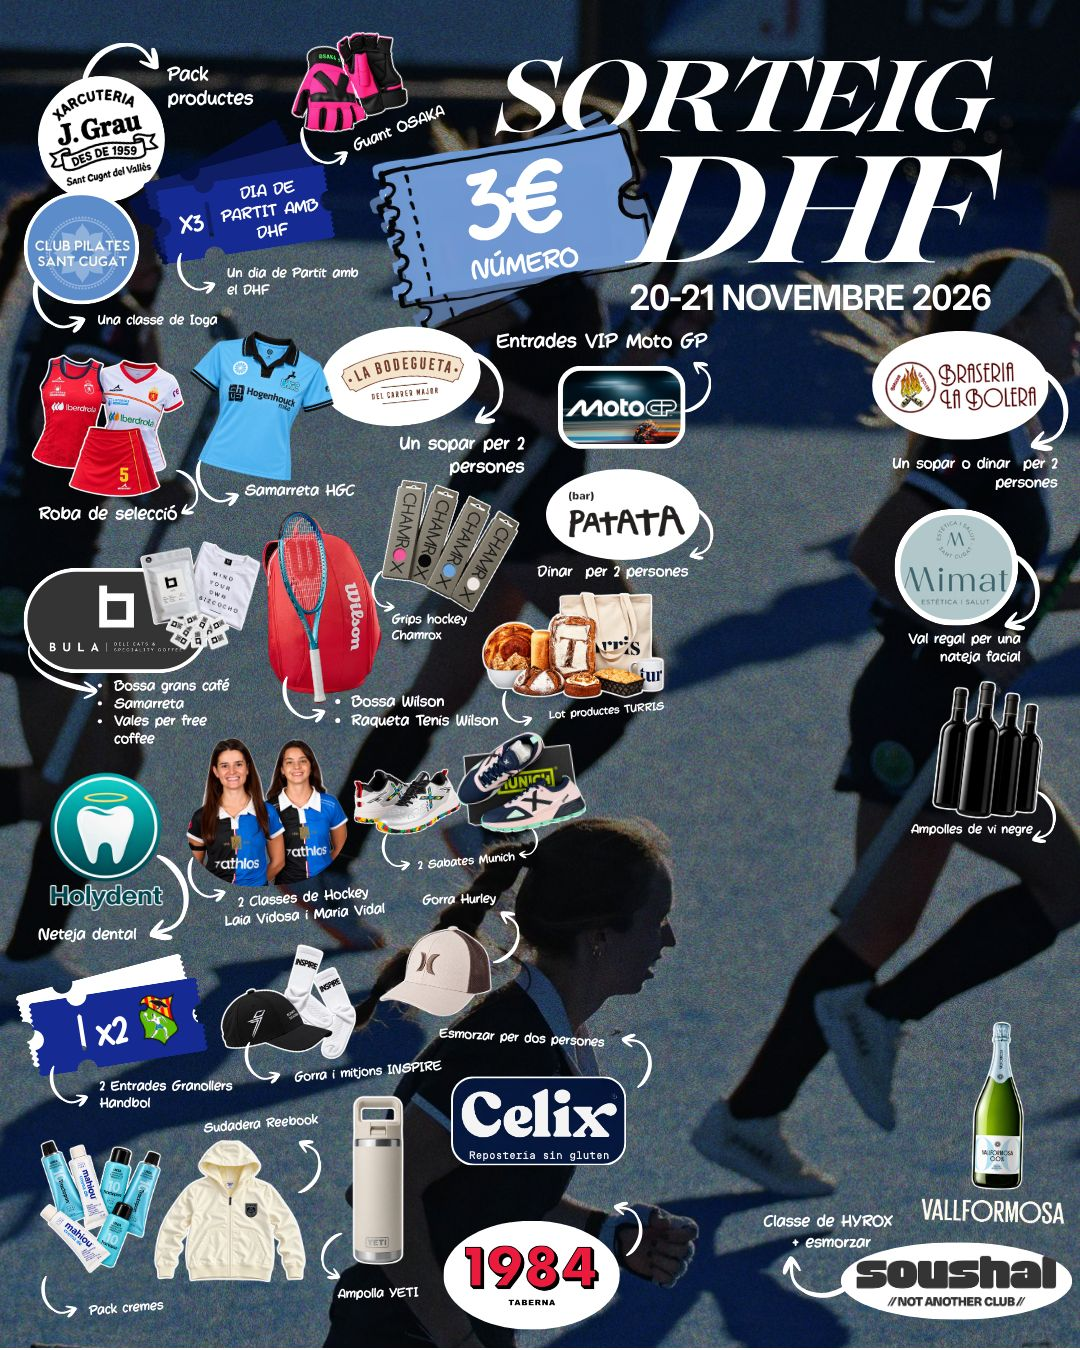
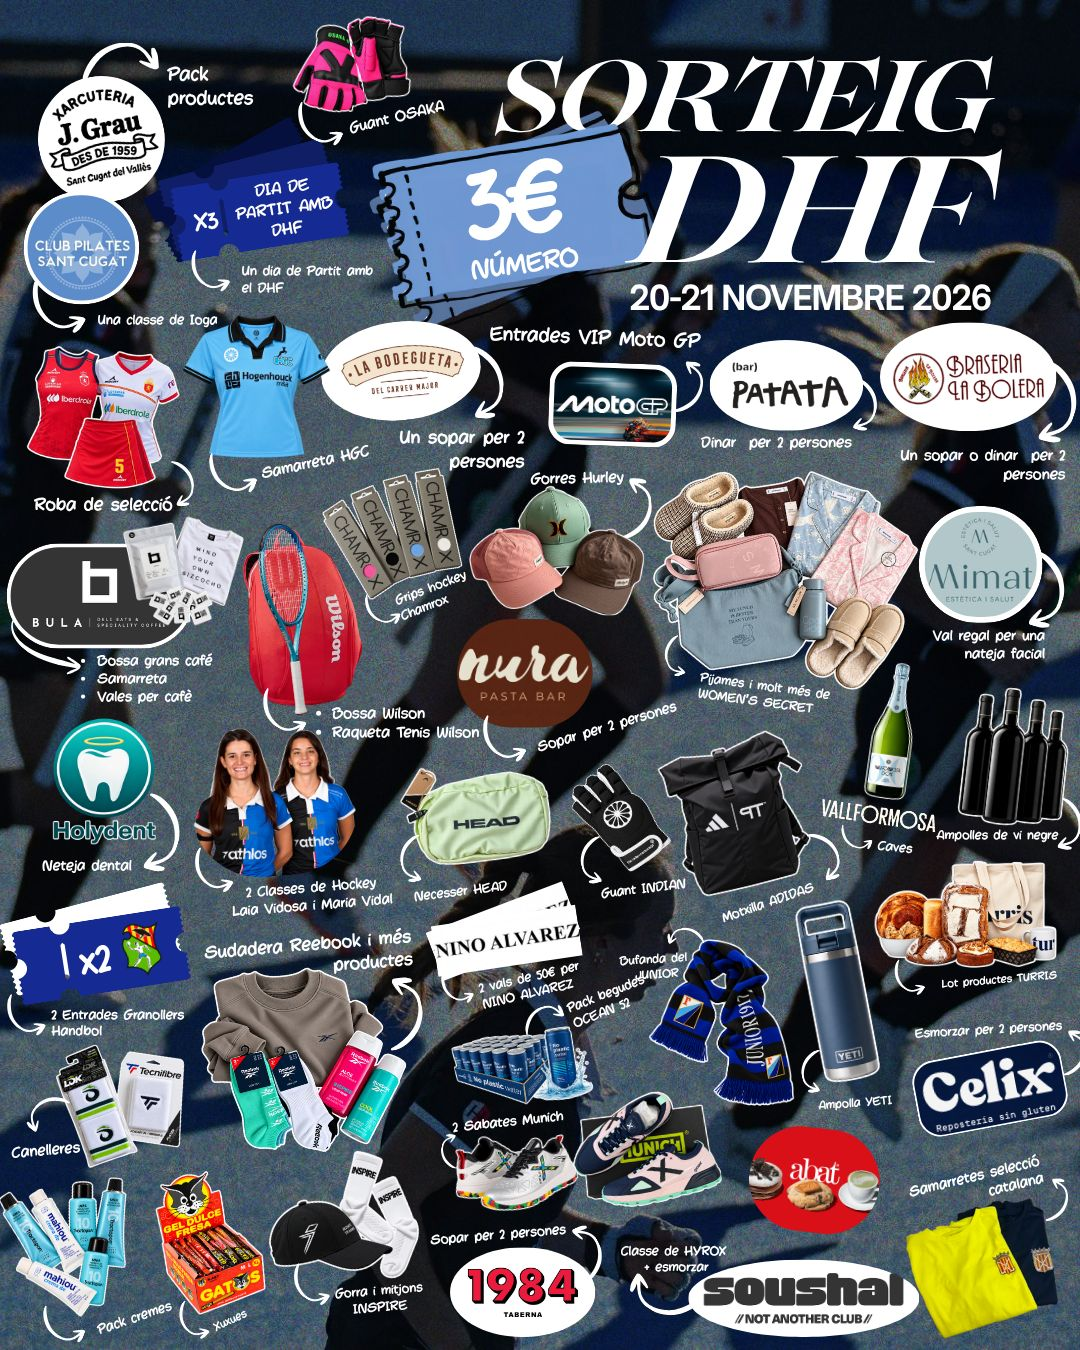
400 números per internet i 400 per a la venda en mà
Els trams passen a ser 1–400 per internet i 401–800 per a la venda en mà,
en comptes d'1–700 i 701–1500.

Al panell, les etiquetes dels dos comptadors i les opcions de l'alta
manual ja no porten els números escrits a mà: els treuen dels trams que
dona el servidor, així no tornen a quedar velles quan es canviïn. També
s'hi posa al dia el preu de partida (3 €), que només es veu l'instant
abans que arribin les dades.

I el cartell dels premis queda substituït per la versió nova.

Claude-Session: https://claude.ai/code/session_01CY6vg8VrV87SFLFj5XhE5e

diff --git a/admin.html b/admin.html
@@ -352,12 +352,12 @@
 
     <div class="marcadors">
       <div class="marcador">
-        <span class="marcador-clau">Internet · 1–700</span>
+        <span class="marcador-clau" id="clauOnline">Internet</span>
         <span class="marcador-valor" id="mOnline">—</span>
         <div class="medidor"><i id="barraOnline" style="width:0%"></i></div>
       </div>
       <div class="marcador">
-        <span class="marcador-clau">En mà · 701–1500</span>
+        <span class="marcador-clau" id="clauMano">En mà</span>
         <span class="marcador-valor" id="mMano">—</span>
         <div class="medidor"><i id="barraMano" style="width:0%"></i></div>
       </div>
@@ -414,8 +414,8 @@
         <div class="camp">
           <label for="aCanal">Venda</label>
           <select id="aCanal">
-            <option value="presencial">En mà (701–1500)</option>
-            <option value="online">Internet (1–700)</option>
+            <option value="presencial">En mà</option>
+            <option value="online">Internet</option>
           </select>
         </div>
         <div class="camp">
@@ -467,7 +467,7 @@
   var eur = function (n) { return eurFmt.format(n); };
   var RE_EMAIL = /^[^\s@]+@[^\s@]+\.[a-zA-Z]{2,}$/;
 
-  var dades = { comandes: [], preu: 5, rangs: { online: [1, 700], presencial: [701, 1500] }, numerosAssignats: {} };
+  var dades = { comandes: [], preu: 3, rangs: { online: [1, 400], presencial: [401, 800] }, numerosAssignats: {} };
   var clau = "";
 
   /* ---------- servidor ---------- */
@@ -594,6 +594,11 @@
     var topeMa = dades.rangs.presencial[1] - dades.rangs.presencial[0] + 1;
     var on = dades.numerosAssignats.online || 0;
     var ma = dades.numerosAssignats.presencial || 0;
+    var tram = function (r) { return numFmt.format(r[0]) + "–" + numFmt.format(r[1]); };
+    $("clauOnline").textContent = "Internet · " + tram(dades.rangs.online);
+    $("clauMano").textContent = "En mà · " + tram(dades.rangs.presencial);
+    $("aCanal").options[0].textContent = "En mà (" + tram(dades.rangs.presencial) + ")";
+    $("aCanal").options[1].textContent = "Internet (" + tram(dades.rangs.online) + ")";
     $("mOnline").textContent = numFmt.format(on) + " / " + numFmt.format(topeOn);
     $("mMano").textContent = numFmt.format(ma) + " / " + numFmt.format(topeMa);
     $("barraOnline").style.width = (on / topeOn * 100) + "%";

diff --git a/lib/db.js b/lib/db.js
@@ -13,8 +13,8 @@ export const sql = neon(URL_BD);
 export const PREU = 3;
 
 export const RANGS = {
-  online: [1, 700],
-  presencial: [701, 1500]
+  online: [1, 400],
+  presencial: [401, 800]
 };
 
 export const METODES = {
@@ -45,6 +45,9 @@ export async function assegurarEsquema() {
     )`;
   // Un número no es pot donar dues vegades: ho garanteix la clau primària,
   // no el codi. Si dues confirmacions coincideixen, una falla i es reintenta.
+  // El límit de 1500 és el de la taula tal com es va crear: canviar-lo aquí no
+  // el canvia a una base de dades que ja existeix. Mentre els trams de RANGS
+  // hi càpiguen, no cal tocar res; per passar-hi de llarg caldria un ALTER.
   await sql`
     CREATE TABLE IF NOT EXISTS numeros (
       num        INTEGER PRIMARY KEY CHECK (num BETWEEN 1 AND 1500),

diff --git a/README.md b/README.md
@@ -111,7 +111,8 @@ fet que algú altre la tindrà.
 Tot el que es toca sovint és a **`lib/db.js`**, a dalt de tot:
 
 - `PREU` — el preu per número (ara 3).
-- `RANGS` — els trams: internet 1–700, en mà 701–1500.
+- `RANGS` — els trams: internet 1–400, en mà 401–800. Si els canvies, el panell
+  agafa sol les etiquetes noves; no s'han de tocar enlloc més.
 - `METODES` — les formes de pagament i a nom de qui van.
 - `MAX_PER_COMANDA` — el màxim de números per comanda (ara 20).
 
